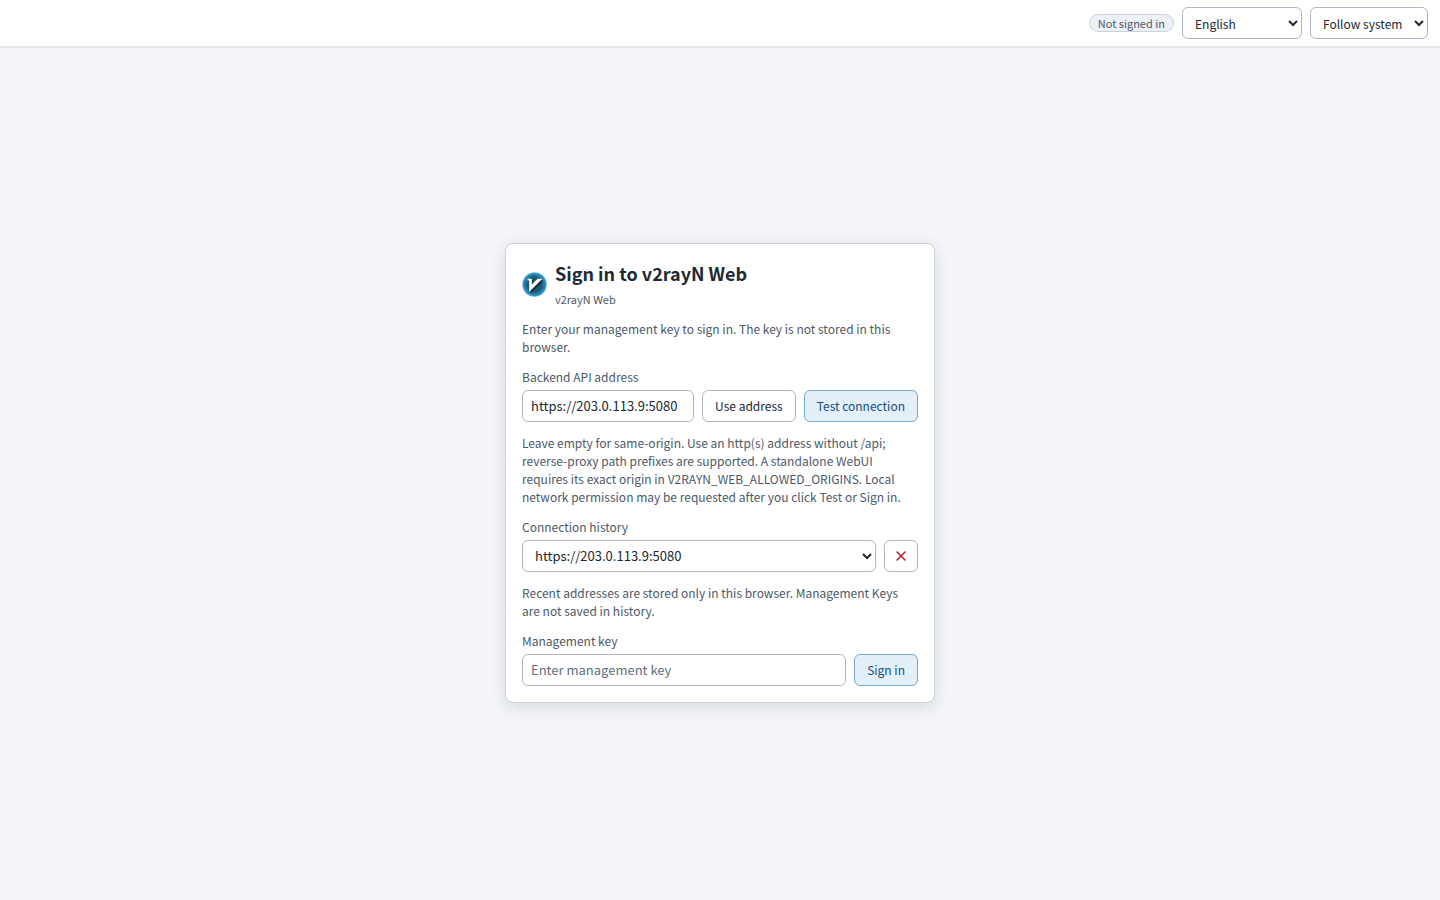
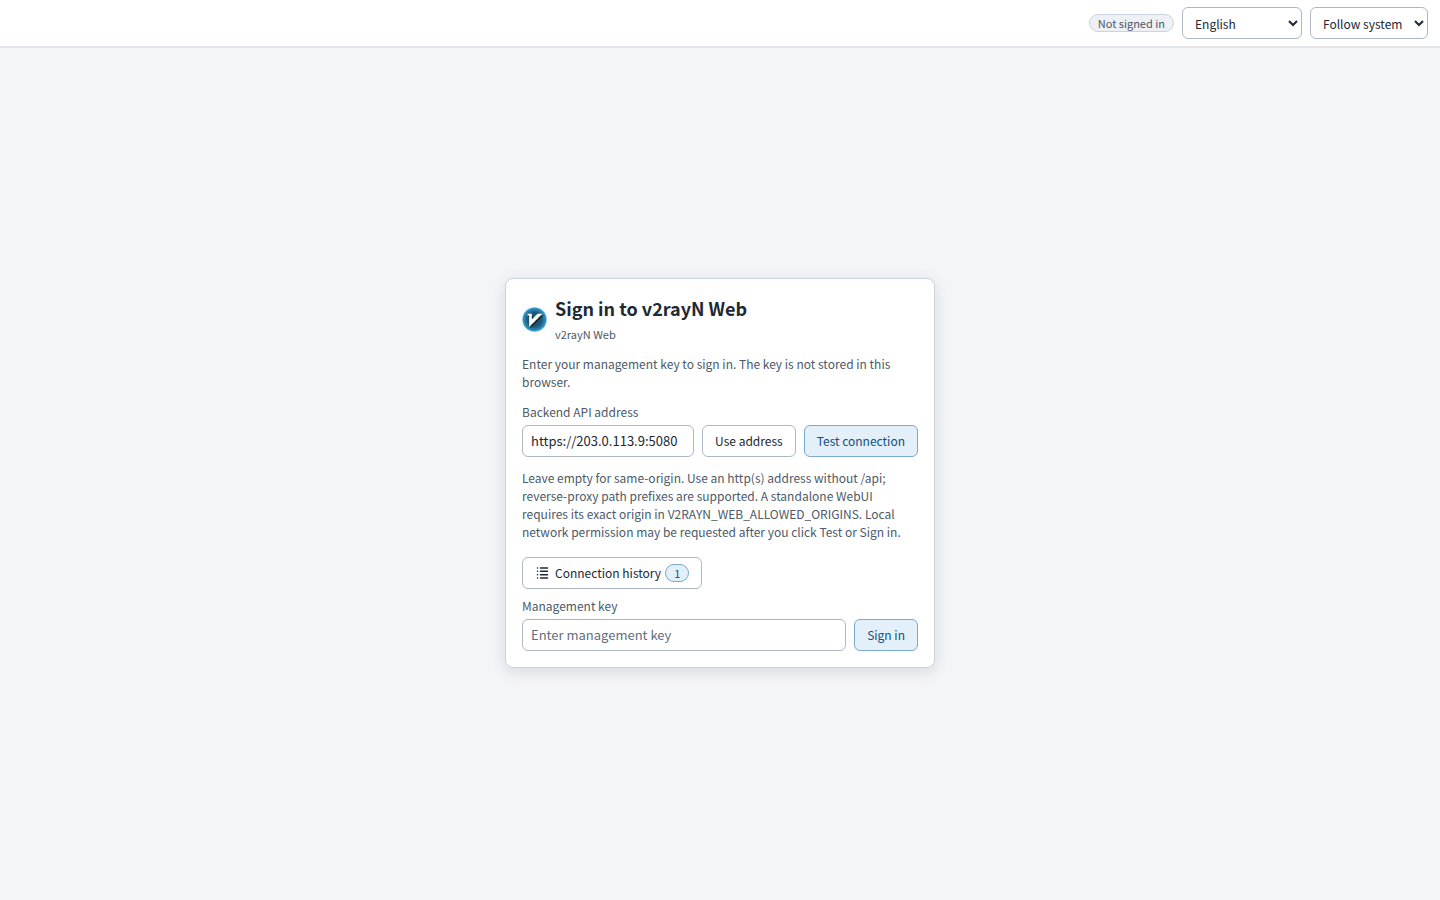
Move Backend history into a picker dialog behind a button

Changed region(s): [[0.3438, 0.28, 0.6562, 0.7778]]

diff --git a/Src/Components/BackendAddressFields.vue b/Src/Components/BackendAddressFields.vue
@@ -1,22 +1,31 @@
 <script setup lang="ts">
+import { nextTick, ref } from 'vue'
 import { useI18n } from 'vue-i18n'
-import { nextTick } from 'vue'
 import UiIcon from './UiIcon.vue'
+import BackendHistoryDialog from './BackendHistoryDialog.vue'
 
 const { t } = useI18n()
 const model = defineModel<string>({ default: '' })
 const props = withDefaults(defineProps<{ testing: boolean; error: string; history?: string[] }>(), { history: () => [] })
 const emit = defineEmits<{ apply: []; test: []; forget: [address: string] }>()
-function selectHistory(event: Event) {
-  const address = (event.target as HTMLSelectElement).value
-  if (!address) return
-  model.value = address
-  emit('apply') // Reuse the original Session cancellation/switch flow; do not auto-connect.
+const showHistory = ref(false)
+const historyTrigger = ref<HTMLButtonElement | null>(null)
+
+function openHistory() {
+  showHistory.value = true
 }
-async function forgetCurrent() {
-  emit('forget', model.value)
+async function closeHistory() {
+  showHistory.value = false
   await nextTick()
-  document.getElementById('api-endpoint')?.focus()
+  historyTrigger.value?.focus({ preventScroll: true })
+}
+function chooseHistory(address: string) {
+  model.value = address
+  emit('apply') // Reuse the existing Session cancellation/switch flow; never connects automatically.
+  void closeHistory()
+}
+function forgetAddress(address: string) {
+  emit('forget', address)
 }
 </script>
 
@@ -29,17 +38,10 @@ async function forgetCurrent() {
       <button class="button primary" type="button" :disabled="props.testing" @click="emit('test')">{{ props.testing ? t('common.working') : t('backend.test') }}</button>
     </div>
     <p class="field-hint">{{ t('backend.hint') }}</p>
-    <div v-if="props.history.length" class="backend-history">
-      <label class="field-label" for="backend-history">{{ t('backend.history') }}</label>
-      <div class="inline-field">
-        <select id="backend-history" :value="props.history.includes(model) ? model : ''" :aria-label="t('backend.history')" @change="selectHistory">
-          <option value="" disabled>{{ t('backend.chooseHistory') }}</option>
-          <option v-for="address in props.history" :key="address" :value="address" :title="address">{{ address }}</option>
-        </select>
-        <button class="tool-button danger-text" type="button" :disabled="!props.history.includes(model)" :aria-label="t('backend.removeHistory')" :title="t('backend.removeHistory')" @click="forgetCurrent"><UiIcon name="close" /></button>
-      </div>
-      <p class="field-hint">{{ t('backend.historyPrivacy') }}</p>
-    </div>
     <p v-if="props.error" class="setup-error" role="alert">{{ props.error }}</p>
+    <button v-if="props.history.length" ref="historyTrigger" class="button backend-history-trigger" type="button" aria-haspopup="dialog" @click="openHistory">
+      <UiIcon name="list" />{{ t('backend.history') }}<span class="count-tag">{{ props.history.length }}</span>
+    </button>
+    <BackendHistoryDialog v-if="showHistory" :addresses="props.history" @select="chooseHistory" @remove="forgetAddress" @close="closeHistory" />
   </div>
 </template>

diff --git a/Src/Components/BackendHistoryDialog.vue b/Src/Components/BackendHistoryDialog.vue
@@ -1,0 +1,42 @@
+<script setup lang="ts">
+import { onMounted, onUnmounted, ref } from 'vue'
+import { useI18n } from 'vue-i18n'
+import { useModalFocus } from '../Composables/useModalFocus'
+import UiIcon from './UiIcon.vue'
+import UiIconButton from './UI/UiIconButton.vue'
+import UiButton from './UI/UiButton.vue'
+
+const { t } = useI18n()
+const props = defineProps<{ addresses: string[] }>()
+const emit = defineEmits<{ select: [address: string]; remove: [address: string]; close: [] }>()
+const panel = ref<HTMLElement | null>(null)
+const { onModalKeydown } = useModalFocus(panel)
+
+// Escape works even after a removal drops focus to <body>; capture also keeps it
+// out of the application's global shortcut handling while this dialog is open.
+function onEscape(event: KeyboardEvent) {
+  if (event.key !== 'Escape') return
+  event.preventDefault()
+  event.stopPropagation()
+  emit('close')
+}
+onMounted(() => window.addEventListener('keydown', onEscape, true))
+onUnmounted(() => window.removeEventListener('keydown', onEscape, true))
+</script>
+
+<template>
+  <div class="profile-picker-shade" @click.self="emit('close')">
+    <section ref="panel" class="profile-picker-panel" role="dialog" aria-modal="true" :aria-label="t('backend.history')" tabindex="-1" @keydown="onModalKeydown">
+      <header class="modal-head"><h2>{{ t('backend.history') }}</h2><UiIconButton type="button" :aria-label="t('common.close')" @click="emit('close')"><UiIcon name="close" /></UiIconButton></header>
+      <p class="field-hint">{{ t('backend.historyPrivacy') }}</p>
+      <div class="profile-picker-list">
+        <div v-for="address in props.addresses" :key="address" class="history-row">
+          <button class="profile-picker-choice history-choice" type="button" @click="emit('select', address)"><strong>{{ address }}</strong></button>
+          <UiIconButton class="danger-text" type="button" :aria-label="t('backend.removeHistory')" :title="t('backend.removeHistory')" @click="emit('remove', address)"><UiIcon name="close" /></UiIconButton>
+        </div>
+        <p v-if="!props.addresses.length" class="muted empty-inline">{{ t('backend.historyEmpty') }}</p>
+      </div>
+      <footer class="modal-actions"><UiButton type="button" @click="emit('close')">{{ t('common.close') }}</UiButton></footer>
+    </section>
+  </div>
+</template>

diff --git a/Src/style.css b/Src/style.css
@@ -907,7 +907,10 @@ button:focus-visible, a:focus-visible, input:focus-visible, select:focus-visible
 }
 .backend-fields .inline-field { flex-wrap: wrap; }
 .backend-fields .inline-field input { min-width: 140px; }
-.backend-history select { flex: 1; min-width: 0; min-height: var(--control-height); padding: var(--space-1) var(--space-2); color: var(--text); border: var(--border-width) solid var(--border-strong); border-radius: var(--radius-control); background: var(--surface-input); font-size: var(--font-input); }
+.backend-history-trigger { margin-top: var(--space-1); }
+.history-row { display: flex; align-items: center; gap: var(--space-2); }
+.history-row .profile-picker-choice { flex: 1 1 auto; min-width: 0; }
+.history-row .profile-picker-choice strong { font-weight: var(--weight-medium); overflow-wrap: anywhere; }
 
 /* Polish: low-height status surfaces and explicit state, not another card layer. */
 @media (min-width: 761px) {

diff --git a/docs/backend-history.md b/docs/backend-history.md
@@ -5,12 +5,16 @@ address (existing behavior) and `v2rayn-api-endpoint-history` as an ordered list
 up to 10 previously used, normalized addresses.
 
 - The login, first-run setup and local-only screens share
-  `Components/BackendAddressFields.vue`, which renders the history selector.
+  `Components/BackendAddressFields.vue`, which renders a **Connection history** button
+  (with a count) that opens `Components/BackendHistoryDialog.vue` — a picker dialog
+  where an address can be chosen or removed. The dialog closes on selection, Escape or
+  backdrop click, and returns focus to the button.
 - History is written only after a successful `Test connection`, login or first-run
   setup. Choosing an entry updates the address and reuses the existing address-switch
   flow (session cancellation, request abort, endpoint-scoped storage); it never
   connects automatically.
-- The remove button deletes the currently selected entry from this browser only.
+- Each dialog entry has its own remove button; removing keeps the dialog open until it
+  is closed, and the list stays this-browser only.
 - Entries are normalized with `normalizeApiBase`: credentials, query strings,
   fragments, non-HTTP(S) schemes and duplicates never enter the list. Path prefixes
   are preserved when present.
@@ -21,6 +25,6 @@ up to 10 previously used, normalized addresses.
   ignored rather than stored, and blocked storage degrades to an empty list.
 
 Checks: `Tests/backendHistory.test.mjs` (storage, migration, dedup, limit, blocked
-storage) and `Tests/browser/backendHistory.mjs` (select, remove, remember after test
-connection and login, key exclusion, desktop/mobile screenshots). Reviewed captures
-are in [screenshots/backend-history/](screenshots/backend-history/).
+storage) and `Tests/browser/backendHistory.mjs` (dialog select, per-entry remove,
+empty state, remember after test connection and login, key exclusion, desktop/mobile
+screenshots). Reviewed captures are in [screenshots/backend-history/](screenshots/backend-history/).

diff --git a/README.md b/README.md
@@ -57,10 +57,10 @@ default. Serve the config file without long-lived caching. No particular public 
 domain is hard-coded in the application.
 
 Each browser also keeps a local history of recently used Backend addresses (up to 10,
-most recent first) so they can be reselected from the login screen or removed
-individually. History is plain `localStorage` for this WebUI origin only; it never
-stores Management Keys or session tokens, and selecting an entry does not connect
-automatically.
+most recent first). The **Connection history** button next to the address field opens
+a picker dialog to reuse or remove entries. History is plain `localStorage` for this
+WebUI origin only; it never stores Management Keys or session tokens, and choosing an
+entry applies the address without connecting automatically.
 
 For an independent site at `https://webui.example.com`, configure the Backend:
 
